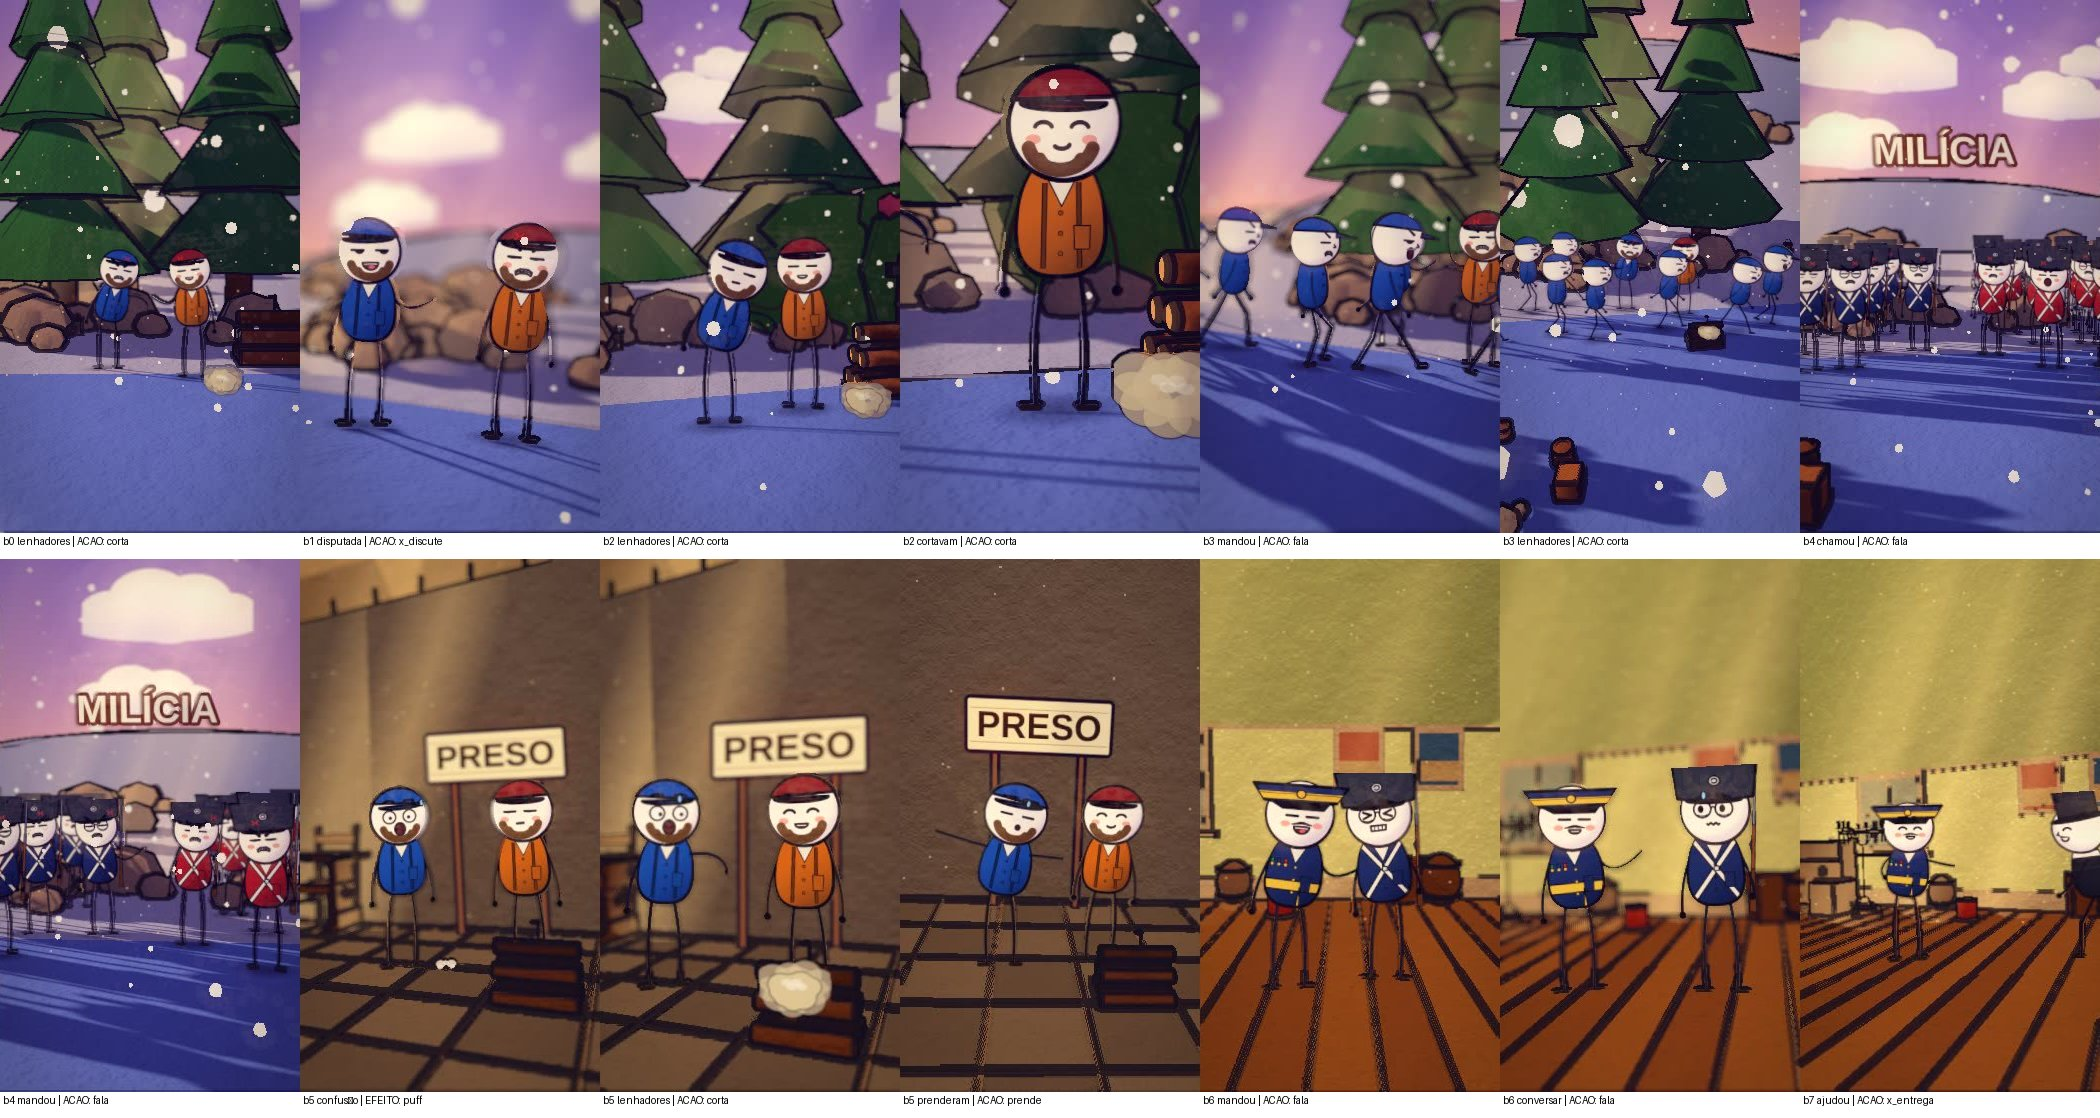
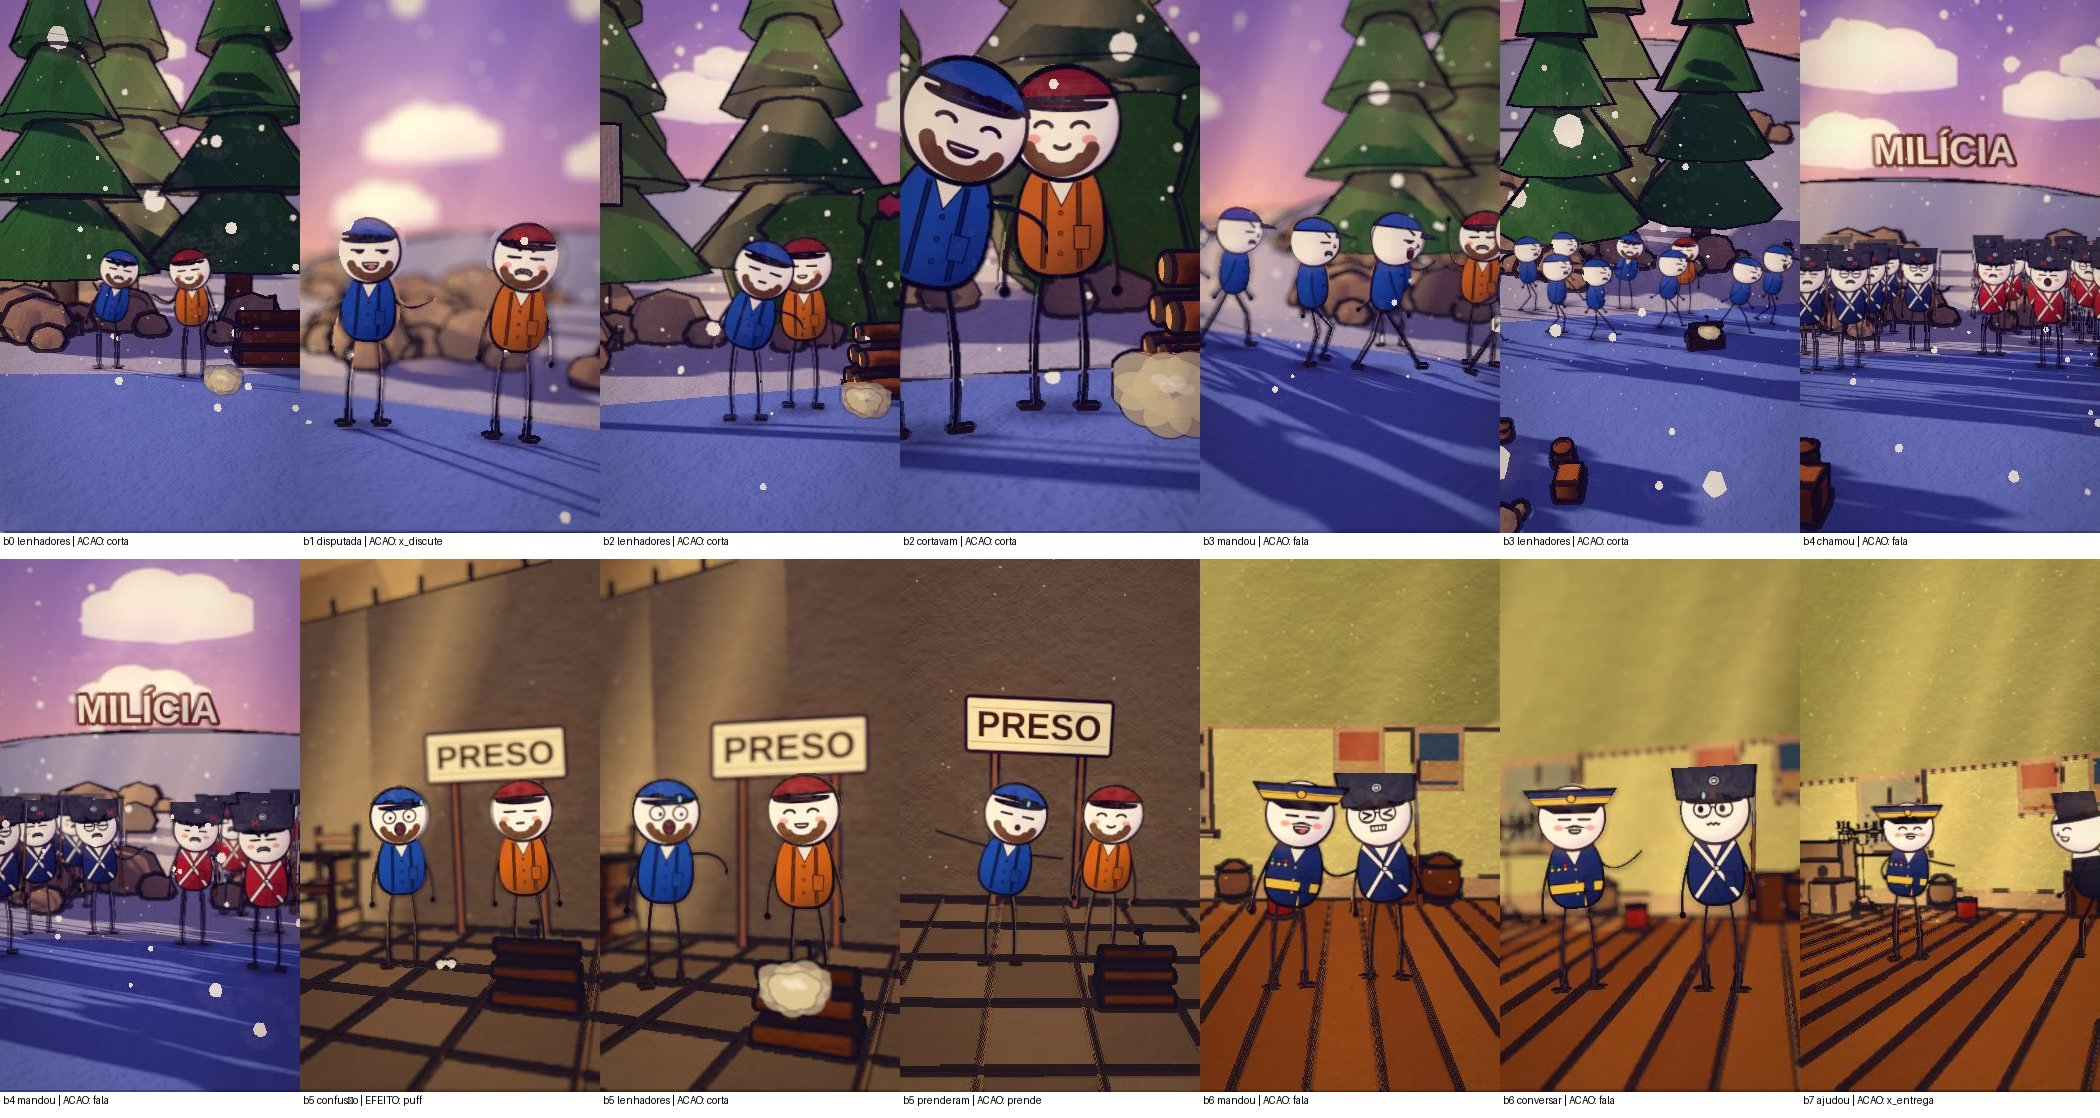
aroostook1838: refeito com neve, mapa sem estudio e revisao; pendencia hold axe
Claude-Session: https://claude.ai/code/session_01HE8Dy2XpEMgdYAHCmWZFay

Changed region(s): [[0.2786, 0.0304, 0.5881, 0.4562], [0.2786, 0.0912, 0.3095, 0.1825]]

diff --git a/ferramenta-shorts/stories/aroostook1838/revisao_storyboard.md b/ferramenta-shorts/stories/aroostook1838/revisao_storyboard.md
@@ -1,12 +1,12 @@
-pesquisa: o quadro de referencias mostra o mapa da fronteira do Maine com New Brunswick, mapa de 1820, gravura de lenhador de casaco de la e chapeu, moda de 1838, retrato e litografia do general Winfield Scott de uniforme azul, tratado de 1842 e cabeca de machado de ferro; comparei figurino e fardas (azul americano, vermelho ingles) e descartei prints errados (lancha moderna, mapa moderno, rodas de fiar, placa brasileira).
-defeitos procurados: cenario (campo de pinheiros, mapa em estudio, salas de madeira e pedra, loja; sem predio moderno), epoca (machado de bronze trocado por machado de ferro, chapeu-coco trocado por cartola, general de bicorne), tamanho (soldados e lenhadores no mesmo porte, toras pequenas, ok), cortado (ninguem cortado nas bordas nos quadros vistos), multidao (b4 com batalhao azul de um lado e vermelho do outro e corredor no meio, sem clones misturados; b3 voluntarios do Maine so em azul), legenda (MILICIA e PRESO ficam acima da faixa da legenda), acao (ver linhas abaixo), objeto (toras herois visiveis, machado, tratado em papel, porco).
-b0: CORRIGIDO (voz refeita tambem: a voz antiga ainda dizia combate) - ninguem foi morto pelo inimigo mostrava 40 soldados misturados atras dos lenhadores por causa da palavra combate -> troquei a frase e agora so os dois lenhadores discutem na mata de pinheiros ao lado das toras.
-b1: CORRIGIDO - a fronteira do Maine aparecia no mapa com bonecos minusculos num estudio quase vazio -> agora o mapa com o pino aparece e os dois lenhadores, azul e laranja, ficam em plano proximo discutindo a disputa.
-b2: OK - lenhadores dos dois lados cortavam as mesmas arvores na mata de pinheiros com toras e machado de ferro no chao, a acao corta aparece como nuvem de poeira e e' o ponto mais fraco.
-b3: CORRIGIDO - a frase antiga com fala entre aspas inventada saiu; agora o Maine manda o agente de terras com voluntarios azuis marchando pela mata para prender os lenhadores de New Brunswick.
-b4: CORRIGIDO - soldados vermelhos e azuis estavam misturados na milicia -> agora a milicia azul do Maine fica de um lado e os soldados vermelhos ingleses do outro, com corredor no meio e sem tiro.
-b5: OK - lenhadores de New Brunswick prenderam o agente do Maine na cela de pedra, placa PRESO acima dos dois e expressao de susto no americano de casaco azul.
-b6: OK - o presidente mandou o general Winfield Scott conversar, general de uniforme azul e bicorne com um soldado miliciano na sala de madeira.
-b7: OK - o general entrega o papel da tregua ao politico de cartola e as tropas nunca lutaram, sem nenhum tiro nem explosao na cena.
-b8: OK - o Tratado Webster-Ashburton de 1842 definiu a fronteira, dois diplomatas de cartola trocam o documento numa sala de pedra.
-b9: OK - Guerra do Porco com Feijao, o porco aparece entre os dois lenhadores numa loja de armazem com prateleiras, sem arvore dentro da sala.
+pesquisa: o quadro de referencias mostra o mapa da fronteira do Maine com New Brunswick, mapa de 1820, gravura de lenhador de casaco de la e chapeu, moda de 1838, litografia e medalha do general Winfield Scott de uniforme azul, placa do tratado de 1842 e cabeca de machado de ferro; comparei figurino e fardas e agora a estacao: a historia e' em fevereiro de 1839 e o cenario passou de verao verde para neve com pinheiros.
+defeitos procurados: cenario (floresta nevada nas cenas b0 a b4, mapa sem estudio quadriculado, salas de madeira e pedra, loja), epoca (inverno de 1839 com neve caindo, machado de ferro e nao de bronze, chapeus de 1839), tamanho (personagens e toras no mesmo porte), cortado (b0 em plano aberto sem ninguem cortado na borda), multidao (b3 voluntarios azuis marchando, b4 milicia azul de um lado e vermelhos do outro com corredor), legenda (MILICIA e PRESO acima da faixa da legenda), acao (corta aparece como poeira e toras sem o machado visivel: limite do motor, ver pendencias_motor), objeto (toras herois visiveis, tratado em papel, porco).
+b0: CORRIGIDO - uma guerra entre os Estados Unidos e a Inglaterra quase aconteceu por causa de lenhadores: estava em campo verde de verao com personagem cortado na borda -> agora pinheiros com neve, os dois lenhadores inteiros em plano aberto ao lado das toras.
+b1: CORRIGIDO - a fronteira do Maine e a colonia inglesa de New Brunswick era disputada: estava no estudio azul quadriculado -> agora o mapa do Maine aparece sobre a neve e os dois lenhadores discutem na mata.
+b2: OK - lenhadores dos dois lados cortavam as mesmas arvores na mata de pinheiros nevada, toras e poeira da acao corta; o machado nao aparece na mao (limite do motor).
+b3: OK - o Maine mandou o agente de terras com voluntarios para prender os lenhadores: voluntarios azuis marchando pela neve ao lado dos pinheiros.
+b4: OK - o Maine chamou milhares de soldados da milicia e a colonia inglesa mandou os seus: milicia azul de um lado, soldados vermelhos do outro, neve e sem tiros.
+b5: OK - lenhadores de New Brunswick prenderam o agente do Maine na cela de pedra com a placa PRESO e expressao de susto no americano.
+b6: OK - o presidente americano mandou o general Winfield Scott conversar: general de uniforme azul e bicorne com um soldado na sala de madeira.
+b7: OK - o general ajudou os dois lados a firmar uma tregua e as tropas nunca chegaram a lutar: o general entrega o papel ao politico de cartola, sem nenhum tiro.
+b8: OK - em mil oitocentos e quarenta e dois o Tratado Webster-Ashburton definiu a fronteira: dois diplomatas de cartola trocam o documento numa sala de pedra.
+b9: OK - ficou conhecida ate como a Guerra do Porco com Feijao: o porco aparece entre dois lenhadores numa loja com prateleiras.

diff --git a/ferramenta-shorts/stories/aroostook1838/cronograma.md b/ferramenta-shorts/stories/aroostook1838/cronograma.md
@@ -1,6 +1,6 @@
 # CRONOGRAMA - Guerras Inusitadas EP 19 - A Guerra de Aroostook
 
-Gerado em 24/11 05:08 | 11 cenas | metricas: acoes_encenadas 100%, acoes_chave_com_efeito 100%, explicacoes_cobertas 100%, cenario_e_epoca_ok 100%
+Gerado em 24/11 05:09 | 11 cenas | metricas: acoes_encenadas 100%, acoes_chave_com_efeito 100%, explicacoes_cobertas 100%, cenario_e_epoca_ok 100%
 
 ## 1. Plano de cenas (o que cada frase vai mostrar)
 
@@ -29,13 +29,13 @@ N | Etapa | O que confere | Estado | Proximo passo
 5 | Voz | narracao neural gerada e tempos por palavra | FEITO | 
 6 | Estilo e enquadramento | autoajuste de luz/cor e ajuste de camera de cada tomada | FEITO | 
 7 | Gates | camera OK, todas as tomadas OK, estilo OK | FEITO | 
-8 | Storyboard e grade de acoes | video inteiro em quadros + 1 quadro no instante de cada acao | PENDENTE | 
-9 | Revisao escrita e aprovacao | uma linha por frase conferindo com a folha 3 e com o quadro da pesquisa | BLOQUEADO (etapa anterior pendente) | ./aprovar_storyboard.sh aroostook1838
-10 | Render | todos os quadros renderizados nesta versao das folhas | BLOQUEADO (etapa anterior pendente) | 
+8 | Storyboard e grade de acoes | video inteiro em quadros + 1 quadro no instante de cada acao | FEITO | 
+9 | Revisao escrita e aprovacao | uma linha por frase conferindo com a folha 3 e com o quadro da pesquisa | FEITO | 
+10 | Render | todos os quadros renderizados nesta versao das folhas | PENDENTE | 
 11 | Montagem e som | trechos + voz + musica + efeitos; volume normalizado | BLOQUEADO (etapa anterior pendente) | 
 12 | Conferencia | conferir.sh sem falha e folha de contato olhada | BLOQUEADO (etapa anterior pendente) | ./conferir.sh aroostook1838
 13 | Auditoria das acoes | 1 quadro do mp4 em cada palavra de acao | REFAZER (a etapa anterior mudou) | bash auditar_acoes.sh local aroostook1838 <mp4>
 14 | Entrega | mp4 original 1080x1920 enviado; commit e push | BLOQUEADO (etapa anterior pendente) | 
 
-**Etapa atual:** 8. Storyboard e grade de acoes
+**Etapa atual:** 10. Render
 
